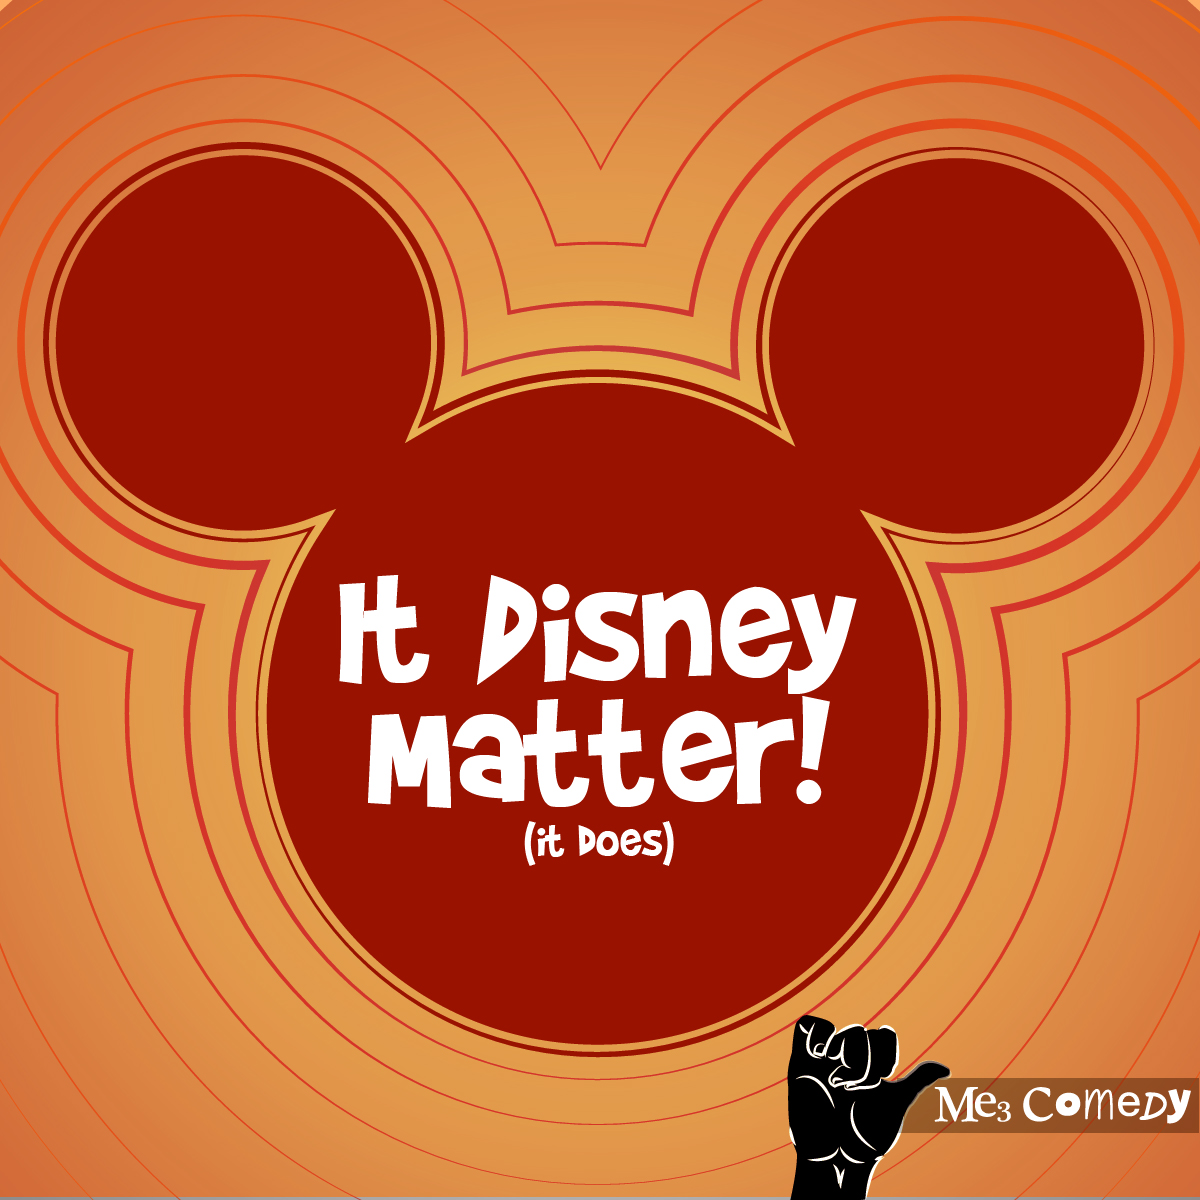
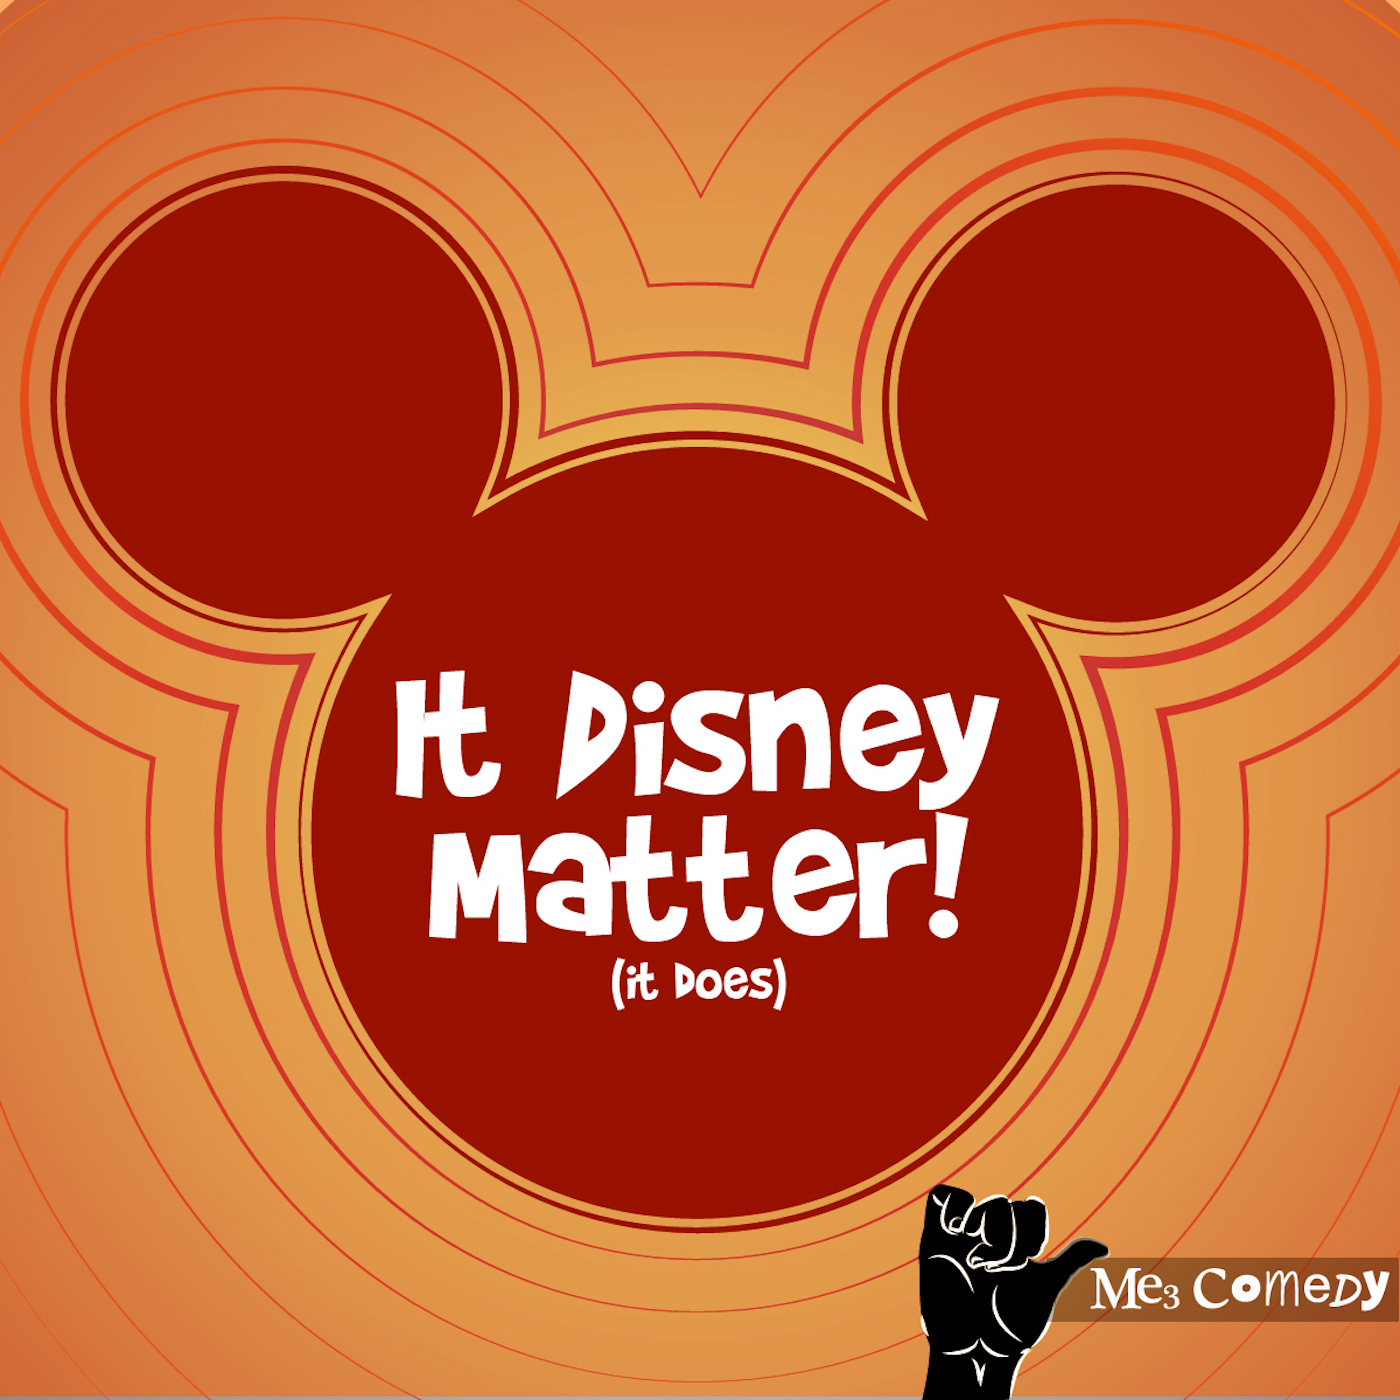
adjust image size

diff --git a/_gbbo/2016-03-28-Tonight-Matthew-We-Watch-The-Tigger-Movie-(It-Disney-Matter-Episode-5).md b/_gbbo/2016-03-28-Tonight-Matthew-We-Watch-The-Tigger-Movie-(It-Disney-Matter-Episode-5).md
@@ -1,12 +1,12 @@
 ---
 layout: post
-title:  "Tonight Matthew, We Watch The Tigger Movie (It Disney Matter! Episode 5)"
-date:   2016-03-28 09:34:58 +0100
-categories: podcast disney
-link: https://archive.org/download/2016619006Me3IDMFindingDory2016/2016-6-19-006-Me3_IDM--FindingDory%282016%29.mp3
-podcast_link: https://archive.org/download/2016619006Me3IDMFindingDory2016/2016-6-19-006-Me3_IDM--FindingDory%282016%29.mp3
+title:  "Great British Bitch Off with Me3 Comedy Intro"
+date:   2015-08-05 13:49:55 +0100
+categories: podcast gbbo
+link: https://archive.org/download/2015805000Me3ComedyGBBOTeaser/2015-8-05-000-Me3_Comedy--GBBO-Teaser.mp3
+podcast_link: https://archive.org/download/2015805000Me3ComedyGBBOTeaser/2015-8-05-000-Me3_Comedy--GBBO-Teaser.mp3
 audio_filesize: 96677728
-audio_duration: "27:32"
+audio_duration: "02:24"
 
 ---
 

diff --git a/_disney/2016-03-28-Tonight-Matthew-We-Watch-The-Tigger-Movie-(It-Disney-Matter-Episode-5).md b/_disney/2016-03-28-Tonight-Matthew-We-Watch-The-Tigger-Movie-(It-Disney-Matter-Episode-5).md
@@ -3,8 +3,8 @@ layout: post
 title:  "Tonight Matthew, We Watch The Tigger Movie (It Disney Matter! Episode 5)"
 date:   2016-03-28 09:34:58 +0100
 categories: podcast disney
-link: https://archive.org/download/2016619006Me3IDMFindingDory2016/2016-6-19-006-Me3_IDM--FindingDory%282016%29.mp3
-podcast_link: https://archive.org/download/2016619006Me3IDMFindingDory2016/2016-6-19-006-Me3_IDM--FindingDory%282016%29.mp3
+link: https://archive.org/download/2016328005Me3IDMTheTiggerMovie2000/2016-3-28-005-Me3_IDM--TheTiggerMovie%282000%29.mp3
+podcast_link: https://archive.org/download/2016328005Me3IDMTheTiggerMovie2000/2016-3-28-005-Me3_IDM--TheTiggerMovie%282000%29.mp3
 audio_filesize: 96677728
 audio_duration: "27:32"
 
